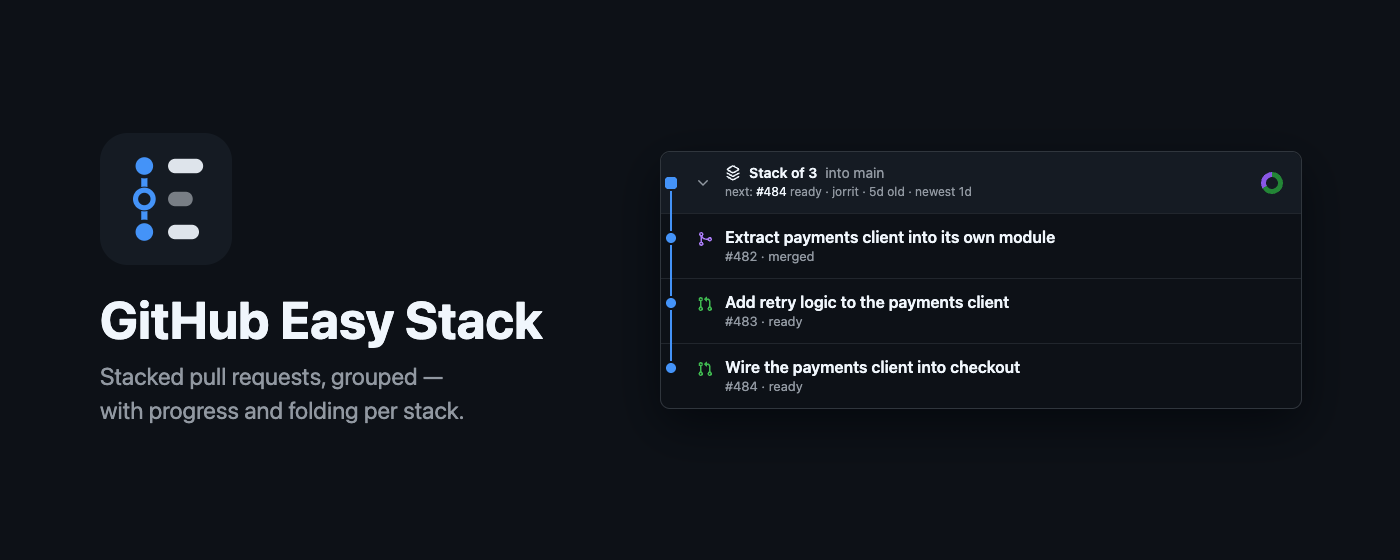
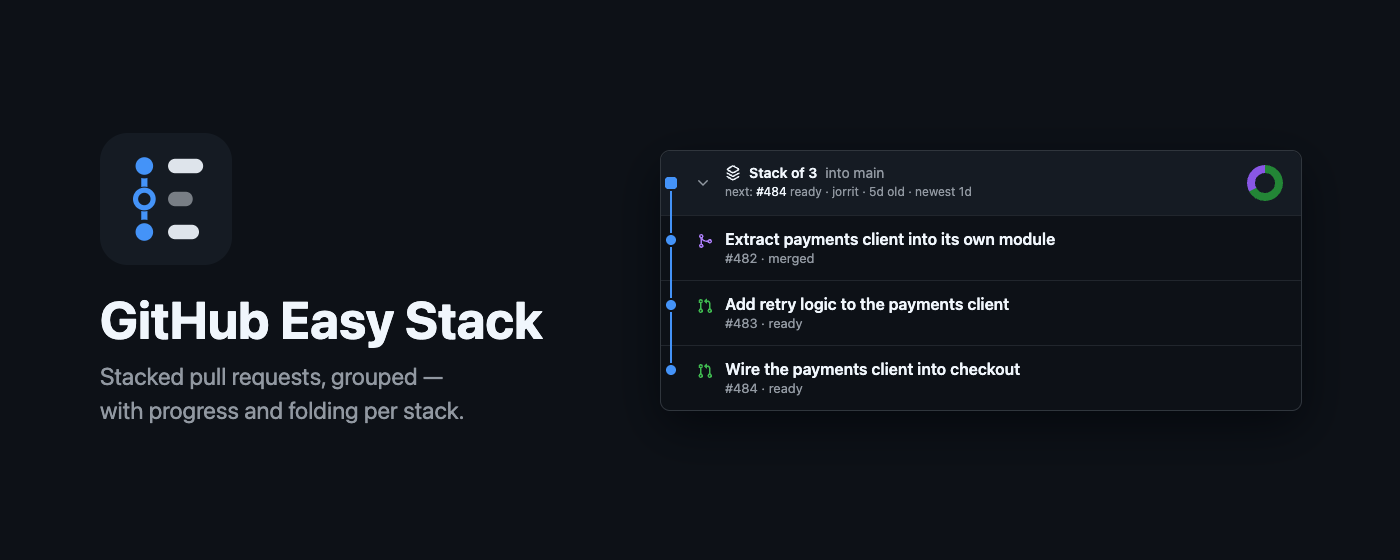
Enlarge the donut and give it a legend with the status colours
A 22px ring was too small to read at a glance and a title attribute can only
say "1 blocked" in the same grey as everything else. The ring is 36px now, so
thin slices no longer have to be padded to 12 degrees to stay visible, and the
counts moved into a hover card that puts each status next to its own colour -
the same colour the ring draws it in.

The card is one reused node on <body>, positioned from the donut's rect, so no
container GitHub wraps its list in can clip it, and it is shown through the
pointerover handler that is already delegated on the document.

diff --git a/store/assets.html b/store/assets.html
@@ -47,7 +47,7 @@ section { display: flex; flex-direction: column; gap: 56px; padding: 48px; }
 <span style="display:inline-flex;align-items:center;gap:8px;font-size:14px;font-weight:600;color:#f0f6fc"><svg width="16" height="16" viewBox="0 0 16 16" style="fill:currentColor"><path d="M7.122.392a1.75 1.75 0 0 1 1.756 0l5.003 2.902c.83.481.83 1.68 0 2.162L8.878 8.358a1.75 1.75 0 0 1-1.756 0L2.119 5.456a1.251 1.251 0 0 1 0-2.162ZM8.125 1.69a.248.248 0 0 0-.25 0l-4.63 2.685 4.63 2.685a.248.248 0 0 0 .25 0l4.63-2.685ZM1.601 7.789a.75.75 0 0 1 1.025-.273l5.249 3.044a.248.248 0 0 0 .25 0l5.249-3.044a.75.75 0 0 1 .752 1.298l-5.248 3.044a1.75 1.75 0 0 1-1.756 0L1.874 8.814A.75.75 0 0 1 1.6 7.789Zm0 3.5a.75.75 0 0 1 1.025-.273l5.249 3.044a.248.248 0 0 0 .25 0l5.249-3.044a.75.75 0 0 1 .752 1.298l-5.248 3.044a1.75 1.75 0 0 1-1.756 0l-5.248-3.044a.75.75 0 0 1-.273-1.025Z"></path></svg>Stack of 4<span style="font-weight:400;color:#9198a1"> into main</span></span>
 <div style="display:flex;height:18px;overflow:hidden;font-size:12px;line-height:18px;color:#9198a1"><span>next: <a style="color:#f0f6fc;text-decoration:none">#482</a> ready &middot; jorrit &middot; 9d old &middot; newest 1d</span></div>
 </div>
-<div style="padding:2px"><svg width="22" height="22" viewBox="0 0 22 22" style="display:block"><circle cx="11" cy="11" r="8.5" fill="none" stroke="#238636" stroke-width="5" stroke-dasharray="26.70 26.70" stroke-dashoffset="0.00" transform="rotate(-90 11 11)"></circle><circle cx="11" cy="11" r="8.5" fill="none" stroke="#3d444d" stroke-width="5" stroke-dasharray="13.35 40.06" stroke-dashoffset="-26.70" transform="rotate(-90 11 11)"></circle><circle cx="11" cy="11" r="8.5" fill="none" stroke="#8957e5" stroke-width="5" stroke-dasharray="13.35 40.06" stroke-dashoffset="-40.06" transform="rotate(-90 11 11)"></circle></svg></div>
+<div style="padding:2px"><svg width="36" height="36" viewBox="0 0 36 36" style="display:block"><circle cx="18" cy="18" r="14" fill="none" stroke="#238636" stroke-width="8" stroke-dasharray="43.98 43.98" stroke-dashoffset="0.00" transform="rotate(-90 18 18)"></circle><circle cx="18" cy="18" r="14" fill="none" stroke="#3d444d" stroke-width="8" stroke-dasharray="21.99 65.98" stroke-dashoffset="-43.98" transform="rotate(-90 18 18)"></circle><circle cx="18" cy="18" r="14" fill="none" stroke="#8957e5" stroke-width="8" stroke-dasharray="21.99 65.98" stroke-dashoffset="-65.98" transform="rotate(-90 18 18)"></circle></svg></div>
 </div></div>
 <!-- stack rows -->
 <div style="position:relative;display:flex;align-items:flex-start;gap:12px;padding:14px 16px 14px 36px;border-top:1px solid #21262d"><div style="position:absolute;top:0;bottom:0;left:0;width:20px"><span style="position:absolute;left:10px;top:-1px;bottom:calc(100% - 24px);width:2px;margin-left:-1px;background:#4493f8"></span><span style="position:absolute;left:10px;top:24px;bottom:-1px;width:2px;margin-left:-1px;background:#4493f8"></span><span style="position:absolute;left:10px;top:24px;width:10px;height:10px;margin:-5px 0 0 -5px;border-radius:50%;background:#4493f8;box-shadow:0 0 0 2px #0d1117"></span></div><svg width="16" height="16" viewBox="0 0 16 16" style="fill:#ab7df8;flex-shrink:0;margin-top:3px"><path d="M5.45 5.154A4.25 4.25 0 0 0 9.25 7.5h1.378a2.251 2.251 0 1 1 0 1.5H9.25A5.734 5.734 0 0 1 5 7.123v3.505a2.25 2.25 0 1 1-1.5 0V5.372a2.25 2.25 0 1 1 1.95-.218ZM4.25 13.5a.75.75 0 1 0 0-1.5.75.75 0 0 0 0 1.5Zm8.5-4.5a.75.75 0 1 0 0-1.5.75.75 0 0 0 0 1.5ZM5 3.25a.75.75 0 1 0 0 .005V3.25Z"></path></svg><div><a href="#" style="font-size:16px;font-weight:600;color:#f0f6fc">Extract payments client into its own module</a><div style="font-size:13px;color:#9198a1;margin-top:2px">#482 opened 2 days ago by jorrit</div></div></div>
@@ -58,7 +58,7 @@ section { display: flex; flex-direction: column; gap: 56px; padding: 48px; }
 <div style="position:relative;display:flex;align-items:flex-start;gap:12px;padding:14px 16px;border-top:1px solid #21262d"><svg width="16" height="16" viewBox="0 0 16 16" style="fill:#9198a1;flex-shrink:0;margin-top:3px"><path d="M1.5 3.25a2.25 2.25 0 1 1 3 2.122v5.256a2.251 2.251 0 1 1-1.5 0V5.372A2.25 2.25 0 0 1 1.5 3.25Zm5.677-.177L9.573.677A.25.25 0 0 1 10 .854V2.5h1A2.5 2.5 0 0 1 13.5 5v5.628a2.251 2.251 0 1 1-1.5 0V5a1 1 0 0 0-1-1h-1v1.646a.25.25 0 0 1-.427.177L7.177 3.427a.25.25 0 0 1 0-.354ZM3.75 2.5a.75.75 0 1 0 0 1.5.75.75 0 0 0 0-1.5Zm0 9.5a.75.75 0 1 0 0 1.5.75.75 0 0 0 0-1.5Zm8.25.75a.75.75 0 1 0 1.5 0 .75.75 0 0 0-1.5 0Z"></path></svg><div><a href="#" style="font-size:16px;font-weight:600;color:#f0f6fc">Bump CI to Node 22</a><div style="font-size:13px;color:#9198a1;margin-top:2px">#476 opened last week by mira · Draft</div></div></div>
 </div>
 <!-- callouts -->
-<div style="position:absolute;top:24px;left:800px;background:rgba(22,27,34,0.95);border:1px solid #4493f8;border-radius:8px;padding:9px 14px;font-size:18px;font-weight:600;color:#f0f6fc">Hover the donut for the counts</div>
+<div style="position:absolute;top:24px;left:800px;background:rgba(22,27,34,0.95);border:1px solid #4493f8;border-radius:8px;padding:9px 14px;font-size:18px;font-weight:600;color:#f0f6fc">Hover the donut for the legend</div>
 <div style="position:absolute;top:66px;left:1100px;width:2px;height:162px;background:#4493f8"></div><div style="position:absolute;top:225px;left:1098px;width:6px;height:6px;border-radius:50%;background:#4493f8"></div>
 <div style="position:absolute;top:24px;left:150px;background:rgba(22,27,34,0.95);border:1px solid #4493f8;border-radius:8px;padding:9px 14px;font-size:18px;font-weight:600;color:#f0f6fc">What is next, who, how old</div>
 <div style="position:absolute;top:66px;left:300px;width:2px;height:190px;background:#4493f8"></div><div style="position:absolute;top:253px;left:298px;width:6px;height:6px;border-radius:50%;background:#4493f8"></div>
@@ -71,8 +71,8 @@ section { display: flex; flex-direction: column; gap: 56px; padding: 48px; }
 <!-- Shot 2: progress close-up -->
 <div id="screenshot-2-progress" style="width:1280px;height:800px;flex-shrink:0;background:#0d1117;position:relative;overflow:hidden;display:flex;align-items:center;justify-content:center">
 <div style="width:1060px;background:#151b23;border:1px solid #30363d;border-radius:12px;padding:36px 44px;display:flex;flex-direction:column;gap:28px">
-<div style="display:flex;align-items:center;gap:24px"><svg width="28" height="28" viewBox="0 0 16 16" style="fill:#9198a1"><path d="M12.78 5.22a.749.749 0 0 1 0 1.06l-4.25 4.25a.749.749 0 0 1-1.06 0L3.22 6.28a.749.749 0 1 1 1.06-1.06L8 8.939l3.72-3.719a.749.749 0 0 1 1.06 0Z"></path></svg><div style="display:flex;flex-direction:column;gap:6px;flex:1;min-width:0"><span style="display:inline-flex;align-items:center;gap:14px;font-size:30px;font-weight:600;color:#f0f6fc;white-space:nowrap"><svg width="30" height="30" viewBox="0 0 16 16" style="fill:currentColor"><path d="M7.122.392a1.75 1.75 0 0 1 1.756 0l5.003 2.902c.83.481.83 1.68 0 2.162L8.878 8.358a1.75 1.75 0 0 1-1.756 0L2.119 5.456a1.251 1.251 0 0 1 0-2.162ZM8.125 1.69a.248.248 0 0 0-.25 0l-4.63 2.685 4.63 2.685a.248.248 0 0 0 .25 0l4.63-2.685ZM1.601 7.789a.75.75 0 0 1 1.025-.273l5.249 3.044a.248.248 0 0 0 .25 0l5.249-3.044a.75.75 0 0 1 .752 1.298l-5.248 3.044a1.75 1.75 0 0 1-1.756 0L1.874 8.814A.75.75 0 0 1 1.6 7.789Zm0 3.5a.75.75 0 0 1 1.025-.273l5.249 3.044a.248.248 0 0 0 .25 0l5.249-3.044a.75.75 0 0 1 .752 1.298l-5.248 3.044a1.75 1.75 0 0 1-1.756 0l-5.248-3.044a.75.75 0 0 1-.273-1.025Z"></path></svg>Stack of 6<span style="font-weight:400;color:#9198a1"> into main</span></span><div style="display:flex;height:30px;overflow:hidden;font-size:22px;line-height:30px;color:#9198a1"><span>next: <span style="color:#f0f6fc">#482</span>in progress &middot; jorrit +1 &middot; 9d old &middot; newest 1d</span></div></div><div style="flex-shrink:0"><svg width="132" height="132" viewBox="0 0 132 132" style="display:block"><circle cx="66" cy="66" r="51" fill="none" stroke="#da3633" stroke-width="30" stroke-dasharray="53.41 267.04" stroke-dashoffset="0.00" transform="rotate(-90 66 66)"></circle><circle cx="66" cy="66" r="51" fill="none" stroke="#9e6a03" stroke-width="30" stroke-dasharray="53.41 267.04" stroke-dashoffset="-53.41" transform="rotate(-90 66 66)"></circle><circle cx="66" cy="66" r="51" fill="none" stroke="#238636" stroke-width="30" stroke-dasharray="53.41 267.04" stroke-dashoffset="-106.81" transform="rotate(-90 66 66)"></circle><circle cx="66" cy="66" r="51" fill="none" stroke="#656c76" stroke-width="30" stroke-dasharray="53.41 267.04" stroke-dashoffset="-160.22" transform="rotate(-90 66 66)"></circle><circle cx="66" cy="66" r="51" fill="none" stroke="#8957e5" stroke-width="30" stroke-dasharray="106.81 213.63" stroke-dashoffset="-213.63" transform="rotate(-90 66 66)"></circle></svg></div></div>
-<div style="display:flex;align-items:flex-start;gap:32px"><div style="flex:1;font-size:20px;line-height:1.55;color:#9198a1">Merged, ready, in progress, blocked, draft, and the members GitHub left off this page. Hover the donut for the counts.</div><div style="display:flex;flex-direction:column;gap:12px;font-size:22px;color:#f0f6fc;background:#0d1117;border:1px solid #3d444d;border-radius:6px;padding:14px 18px"><span style="display:inline-flex;align-items:center;gap:10px"><span style="width:14px;height:14px;border-radius:50%;background:#8957e5"></span>2 merged</span><span style="display:inline-flex;align-items:center;gap:10px"><span style="width:14px;height:14px;border-radius:50%;background:#238636"></span>1 ready</span><span style="display:inline-flex;align-items:center;gap:10px"><span style="width:14px;height:14px;border-radius:50%;background:#9e6a03"></span>1 in progress</span><span style="display:inline-flex;align-items:center;gap:10px"><span style="width:14px;height:14px;border-radius:50%;background:#da3633"></span>1 blocked</span><span style="display:inline-flex;align-items:center;gap:10px"><span style="width:14px;height:14px;border-radius:50%;background:#656c76"></span>1 draft</span></div></div>
+<div style="display:flex;align-items:center;gap:24px"><svg width="28" height="28" viewBox="0 0 16 16" style="fill:#9198a1"><path d="M12.78 5.22a.749.749 0 0 1 0 1.06l-4.25 4.25a.749.749 0 0 1-1.06 0L3.22 6.28a.749.749 0 1 1 1.06-1.06L8 8.939l3.72-3.719a.749.749 0 0 1 1.06 0Z"></path></svg><div style="display:flex;flex-direction:column;gap:6px;flex:1;min-width:0"><span style="display:inline-flex;align-items:center;gap:14px;font-size:30px;font-weight:600;color:#f0f6fc;white-space:nowrap"><svg width="30" height="30" viewBox="0 0 16 16" style="fill:currentColor"><path d="M7.122.392a1.75 1.75 0 0 1 1.756 0l5.003 2.902c.83.481.83 1.68 0 2.162L8.878 8.358a1.75 1.75 0 0 1-1.756 0L2.119 5.456a1.251 1.251 0 0 1 0-2.162ZM8.125 1.69a.248.248 0 0 0-.25 0l-4.63 2.685 4.63 2.685a.248.248 0 0 0 .25 0l4.63-2.685ZM1.601 7.789a.75.75 0 0 1 1.025-.273l5.249 3.044a.248.248 0 0 0 .25 0l5.249-3.044a.75.75 0 0 1 .752 1.298l-5.248 3.044a1.75 1.75 0 0 1-1.756 0L1.874 8.814A.75.75 0 0 1 1.6 7.789Zm0 3.5a.75.75 0 0 1 1.025-.273l5.249 3.044a.248.248 0 0 0 .25 0l5.249-3.044a.75.75 0 0 1 .752 1.298l-5.248 3.044a1.75 1.75 0 0 1-1.756 0l-5.248-3.044a.75.75 0 0 1-.273-1.025Z"></path></svg>Stack of 6<span style="font-weight:400;color:#9198a1"> into main</span></span><div style="display:flex;height:30px;overflow:hidden;font-size:22px;line-height:30px;color:#9198a1"><span>next: <span style="color:#f0f6fc">#482</span> in progress &middot; jorrit +1 &middot; 9d old &middot; newest 1d</span></div></div><div style="flex-shrink:0"><svg width="132" height="132" viewBox="0 0 132 132" style="display:block"><circle cx="66" cy="66" r="51" fill="none" stroke="#da3633" stroke-width="30" stroke-dasharray="53.41 267.04" stroke-dashoffset="0.00" transform="rotate(-90 66 66)"></circle><circle cx="66" cy="66" r="51" fill="none" stroke="#9e6a03" stroke-width="30" stroke-dasharray="53.41 267.04" stroke-dashoffset="-53.41" transform="rotate(-90 66 66)"></circle><circle cx="66" cy="66" r="51" fill="none" stroke="#238636" stroke-width="30" stroke-dasharray="53.41 267.04" stroke-dashoffset="-106.81" transform="rotate(-90 66 66)"></circle><circle cx="66" cy="66" r="51" fill="none" stroke="#656c76" stroke-width="30" stroke-dasharray="53.41 267.04" stroke-dashoffset="-160.22" transform="rotate(-90 66 66)"></circle><circle cx="66" cy="66" r="51" fill="none" stroke="#8957e5" stroke-width="30" stroke-dasharray="106.81 213.63" stroke-dashoffset="-213.63" transform="rotate(-90 66 66)"></circle></svg></div></div>
+<div style="display:flex;align-items:flex-start;gap:32px"><div style="flex:1;font-size:20px;line-height:1.55;color:#9198a1">Merged, ready, in progress, blocked, draft, and the members GitHub left off this page. Hover the donut for the legend, a colour and a count per status.</div><div style="display:flex;flex-direction:column;gap:12px;font-size:22px;color:#f0f6fc;background:#0d1117;border:1px solid #3d444d;border-radius:6px;padding:14px 18px"><span style="display:inline-flex;align-items:center;gap:10px"><span style="width:14px;height:14px;border-radius:50%;background:#8957e5"></span>2 merged</span><span style="display:inline-flex;align-items:center;gap:10px"><span style="width:14px;height:14px;border-radius:50%;background:#238636"></span>1 ready</span><span style="display:inline-flex;align-items:center;gap:10px"><span style="width:14px;height:14px;border-radius:50%;background:#9e6a03"></span>1 in progress</span><span style="display:inline-flex;align-items:center;gap:10px"><span style="width:14px;height:14px;border-radius:50%;background:#da3633"></span>1 blocked</span><span style="display:inline-flex;align-items:center;gap:10px"><span style="width:14px;height:14px;border-radius:50%;background:#656c76"></span>1 draft</span></div></div>
 </div>
 <div style="position:absolute;top:120px;left:110px;background:rgba(22,27,34,0.95);border:1px solid #4493f8;border-radius:8px;padding:9px 14px;font-size:18px;font-weight:600;color:#f0f6fc">Every stack header shows where the stack stands</div>
 <div style="position:absolute;bottom:110px;right:130px;background:rgba(22,27,34,0.95);border:1px solid #4493f8;border-radius:8px;padding:9px 14px;font-size:18px;font-weight:600;color:#f0f6fc">Ready = no requested changes, no failing checks, not a draft</div>
@@ -90,7 +90,7 @@ section { display: flex; flex-direction: column; gap: 56px; padding: 48px; }
 <span style="display:inline-flex;align-items:center;gap:8px;font-size:14px;font-weight:600;color:#f0f6fc"><svg width="16" height="16" viewBox="0 0 16 16" style="fill:currentColor"><path d="M7.122.392a1.75 1.75 0 0 1 1.756 0l5.003 2.902c.83.481.83 1.68 0 2.162L8.878 8.358a1.75 1.75 0 0 1-1.756 0L2.119 5.456a1.251 1.251 0 0 1 0-2.162ZM8.125 1.69a.248.248 0 0 0-.25 0l-4.63 2.685 4.63 2.685a.248.248 0 0 0 .25 0l4.63-2.685ZM1.601 7.789a.75.75 0 0 1 1.025-.273l5.249 3.044a.248.248 0 0 0 .25 0l5.249-3.044a.75.75 0 0 1 .752 1.298l-5.248 3.044a1.75 1.75 0 0 1-1.756 0L1.874 8.814A.75.75 0 0 1 1.6 7.789Zm0 3.5a.75.75 0 0 1 1.025-.273l5.249 3.044a.248.248 0 0 0 .25 0l5.249-3.044a.75.75 0 0 1 .752 1.298l-5.248 3.044a1.75 1.75 0 0 1-1.756 0l-5.248-3.044a.75.75 0 0 1-.273-1.025Z"></path></svg>Stack of 4<span style="font-weight:400;color:#9198a1"> into main</span></span>
 <div style="display:flex;height:18px;overflow:hidden;font-size:12px;line-height:18px;color:#9198a1"><span>next: <a style="color:#f0f6fc;text-decoration:none">#483</a> ready &middot; jorrit +1 &middot; 6d old &middot; newest 21h</span></div>
 </div>
-<div style="padding:2px"><svg width="22" height="22" viewBox="0 0 22 22" style="display:block"><circle cx="11" cy="11" r="8.5" fill="none" stroke="#238636" stroke-width="5" stroke-dasharray="40.06 13.35" stroke-dashoffset="0.00" transform="rotate(-90 11 11)"></circle><circle cx="11" cy="11" r="8.5" fill="none" stroke="#8957e5" stroke-width="5" stroke-dasharray="13.35 40.06" stroke-dashoffset="-40.06" transform="rotate(-90 11 11)"></circle></svg></div>
+<div style="padding:2px"><svg width="36" height="36" viewBox="0 0 36 36" style="display:block"><circle cx="18" cy="18" r="14" fill="none" stroke="#238636" stroke-width="8" stroke-dasharray="65.98 21.99" stroke-dashoffset="0.00" transform="rotate(-90 18 18)"></circle><circle cx="18" cy="18" r="14" fill="none" stroke="#8957e5" stroke-width="8" stroke-dasharray="21.99 65.98" stroke-dashoffset="-65.98" transform="rotate(-90 18 18)"></circle></svg></div>
 </div></div>
 <div style="position:relative;padding:12px 16px 12px 36px;border-top:1px solid #21262d;background:#151b23;font-size:13px;color:#9198a1">
 <div style="position:absolute;top:0;bottom:0;left:0;width:20px"><span style="position:absolute;left:10px;top:50%;width:12px;height:12px;margin:-6px 0 0 -6px;border-radius:3px;background:#ab7df8;box-shadow:0 0 0 2px #151b23"></span></div>
@@ -100,7 +100,7 @@ section { display: flex; flex-direction: column; gap: 56px; padding: 48px; }
 <span style="display:inline-flex;align-items:center;gap:8px;font-size:14px;font-weight:600;color:#f0f6fc"><svg width="16" height="16" viewBox="0 0 16 16" style="fill:currentColor"><path d="M7.122.392a1.75 1.75 0 0 1 1.756 0l5.003 2.902c.83.481.83 1.68 0 2.162L8.878 8.358a1.75 1.75 0 0 1-1.756 0L2.119 5.456a1.251 1.251 0 0 1 0-2.162ZM8.125 1.69a.248.248 0 0 0-.25 0l-4.63 2.685 4.63 2.685a.248.248 0 0 0 .25 0l4.63-2.685ZM1.601 7.789a.75.75 0 0 1 1.025-.273l5.249 3.044a.248.248 0 0 0 .25 0l5.249-3.044a.75.75 0 0 1 .752 1.298l-5.248 3.044a1.75 1.75 0 0 1-1.756 0L1.874 8.814A.75.75 0 0 1 1.6 7.789Zm0 3.5a.75.75 0 0 1 1.025-.273l5.249 3.044a.248.248 0 0 0 .25 0l5.249-3.044a.75.75 0 0 1 .752 1.298l-5.248 3.044a1.75 1.75 0 0 1-1.756 0l-5.248-3.044a.75.75 0 0 1-.273-1.025Z"></path></svg>Stack of 3<span style="font-weight:400;color:#9198a1"> into develop</span></span>
 <div style="display:flex;height:18px;overflow:hidden;font-size:12px;line-height:18px;color:#9198a1"><span>next: <a style="color:#f0f6fc;text-decoration:none">#476</a> draft &middot; mira &middot; 8d old &middot; newest 2d</span></div>
 </div>
-<div style="padding:2px"><svg width="22" height="22" viewBox="0 0 22 22" style="display:block"><circle cx="11" cy="11" r="8.5" fill="none" stroke="#9e6a03" stroke-width="5" stroke-dasharray="17.80 35.60" stroke-dashoffset="0.00" transform="rotate(-90 11 11)"></circle><circle cx="11" cy="11" r="8.5" fill="none" stroke="#656c76" stroke-width="5" stroke-dasharray="35.60 17.80" stroke-dashoffset="-17.80" transform="rotate(-90 11 11)"></circle></svg></div>
+<div style="padding:2px"><svg width="36" height="36" viewBox="0 0 36 36" style="display:block"><circle cx="18" cy="18" r="14" fill="none" stroke="#9e6a03" stroke-width="8" stroke-dasharray="29.32 58.64" stroke-dashoffset="0.00" transform="rotate(-90 18 18)"></circle><circle cx="18" cy="18" r="14" fill="none" stroke="#656c76" stroke-width="8" stroke-dasharray="58.64 29.32" stroke-dashoffset="-29.32" transform="rotate(-90 18 18)"></circle></svg></div>
 </div></div>
 <div style="position:relative;display:flex;align-items:flex-start;gap:12px;padding:14px 16px;border-top:1px solid #21262d"><svg width="16" height="16" viewBox="0 0 16 16" style="fill:#3fb950;flex-shrink:0;margin-top:3px"><path d="M1.5 3.25a2.25 2.25 0 1 1 3 2.122v5.256a2.251 2.251 0 1 1-1.5 0V5.372A2.25 2.25 0 0 1 1.5 3.25Zm5.677-.177L9.573.677A.25.25 0 0 1 10 .854V2.5h1A2.5 2.5 0 0 1 13.5 5v5.628a2.251 2.251 0 1 1-1.5 0V5a1 1 0 0 0-1-1h-1v1.646a.25.25 0 0 1-.427.177L7.177 3.427a.25.25 0 0 1 0-.354ZM3.75 2.5a.75.75 0 1 0 0 1.5.75.75 0 0 0 0-1.5Zm0 9.5a.75.75 0 1 0 0 1.5.75.75 0 0 0 0-1.5Zm8.25.75a.75.75 0 1 0 1.5 0 .75.75 0 0 0-1.5 0Z"></path></svg><div><a href="#" style="font-size:16px;font-weight:600;color:#f0f6fc">Fix flaky login test on Safari</a><div style="font-size:13px;color:#9198a1;margin-top:2px">#479 opened 3 days ago by mira</div></div></div>
 </div>
@@ -142,7 +142,7 @@ section { display: flex; flex-direction: column; gap: 56px; padding: 48px; }
 <span style="display:inline-flex;align-items:center;gap:8px;font-size:14px;font-weight:600;color:#f0f6fc"><svg width="16" height="16" viewBox="0 0 16 16" style="fill:currentColor"><path d="M7.122.392a1.75 1.75 0 0 1 1.756 0l5.003 2.902c.83.481.83 1.68 0 2.162L8.878 8.358a1.75 1.75 0 0 1-1.756 0L2.119 5.456a1.251 1.251 0 0 1 0-2.162ZM8.125 1.69a.248.248 0 0 0-.25 0l-4.63 2.685 4.63 2.685a.248.248 0 0 0 .25 0l4.63-2.685ZM1.601 7.789a.75.75 0 0 1 1.025-.273l5.249 3.044a.248.248 0 0 0 .25 0l5.249-3.044a.75.75 0 0 1 .752 1.298l-5.248 3.044a1.75 1.75 0 0 1-1.756 0L1.874 8.814A.75.75 0 0 1 1.6 7.789Zm0 3.5a.75.75 0 0 1 1.025-.273l5.249 3.044a.248.248 0 0 0 .25 0l5.249-3.044a.75.75 0 0 1 .752 1.298l-5.248 3.044a1.75 1.75 0 0 1-1.756 0l-5.248-3.044a.75.75 0 0 1-.273-1.025Z"></path></svg>Stack of 3<span style="font-weight:400;color:#9198a1"> into main</span></span>
 <div style="display:flex;height:18px;overflow:hidden;font-size:12px;line-height:18px;color:#9198a1"><span>next: <a style="color:#f0f6fc;text-decoration:none">#484</a> ready &middot; jorrit &middot; 5d old &middot; newest 1d</span></div>
 </div>
-<div style="padding:2px"><svg width="22" height="22" viewBox="0 0 22 22" style="display:block"><circle cx="11" cy="11" r="8.5" fill="none" stroke="#238636" stroke-width="5" stroke-dasharray="35.60 17.80" stroke-dashoffset="0.00" transform="rotate(-90 11 11)"></circle><circle cx="11" cy="11" r="8.5" fill="none" stroke="#8957e5" stroke-width="5" stroke-dasharray="17.80 35.60" stroke-dashoffset="-35.60" transform="rotate(-90 11 11)"></circle></svg></div>
+<div style="padding:2px"><svg width="36" height="36" viewBox="0 0 36 36" style="display:block"><circle cx="18" cy="18" r="14" fill="none" stroke="#238636" stroke-width="8" stroke-dasharray="58.64 29.32" stroke-dashoffset="0.00" transform="rotate(-90 18 18)"></circle><circle cx="18" cy="18" r="14" fill="none" stroke="#8957e5" stroke-width="8" stroke-dasharray="29.32 58.64" stroke-dashoffset="-58.64" transform="rotate(-90 18 18)"></circle></svg></div>
 </div></div>
 <div style="position:relative;display:flex;align-items:flex-start;gap:12px;padding:14px 16px 14px 36px;border-top:1px solid #21262d"><div style="position:absolute;top:0;bottom:0;left:0;width:20px"><span style="position:absolute;left:10px;top:-1px;bottom:calc(100% - 24px);width:2px;margin-left:-1px;background:#4493f8"></span><span style="position:absolute;left:10px;top:24px;bottom:-1px;width:2px;margin-left:-1px;background:#4493f8"></span><span style="position:absolute;left:10px;top:24px;width:10px;height:10px;margin:-5px 0 0 -5px;border-radius:50%;background:#4493f8;box-shadow:0 0 0 2px #0d1117"></span></div><svg width="16" height="16" viewBox="0 0 16 16" style="fill:#ab7df8;flex-shrink:0;margin-top:3px"><path d="M5.45 5.154A4.25 4.25 0 0 0 9.25 7.5h1.378a2.251 2.251 0 1 1 0 1.5H9.25A5.734 5.734 0 0 1 5 7.123v3.505a2.25 2.25 0 1 1-1.5 0V5.372a2.25 2.25 0 1 1 1.95-.218ZM4.25 13.5a.75.75 0 1 0 0-1.5.75.75 0 0 0 0 1.5Zm8.5-4.5a.75.75 0 1 0 0-1.5.75.75 0 0 0 0 1.5ZM5 3.25a.75.75 0 1 0 0 .005V3.25Z"></path></svg><div><span style="font-size:16px;font-weight:600;color:#f0f6fc">Extract payments client into its own module</span><div style="font-size:13px;color:#9198a1;margin-top:2px">#482 · merged</div></div></div>
 <div style="position:relative;display:flex;align-items:flex-start;gap:12px;padding:14px 16px 14px 36px;border-top:1px solid #21262d"><div style="position:absolute;top:0;bottom:0;left:0;width:20px"><span style="position:absolute;left:10px;top:-1px;bottom:calc(100% - 24px);width:2px;margin-left:-1px;background:#4493f8"></span><span style="position:absolute;left:10px;top:24px;bottom:-1px;width:2px;margin-left:-1px;background:#4493f8"></span><span style="position:absolute;left:10px;top:24px;width:10px;height:10px;margin:-5px 0 0 -5px;border-radius:50%;background:#4493f8;box-shadow:0 0 0 2px #0d1117"></span></div><svg width="16" height="16" viewBox="0 0 16 16" style="fill:#3fb950;flex-shrink:0;margin-top:3px"><path d="M1.5 3.25a2.25 2.25 0 1 1 3 2.122v5.256a2.251 2.251 0 1 1-1.5 0V5.372A2.25 2.25 0 0 1 1.5 3.25Zm5.677-.177L9.573.677A.25.25 0 0 1 10 .854V2.5h1A2.5 2.5 0 0 1 13.5 5v5.628a2.251 2.251 0 1 1-1.5 0V5a1 1 0 0 0-1-1h-1v1.646a.25.25 0 0 1-.427.177L7.177 3.427a.25.25 0 0 1 0-.354ZM3.75 2.5a.75.75 0 1 0 0 1.5.75.75 0 0 0 0-1.5Zm0 9.5a.75.75 0 1 0 0 1.5.75.75 0 0 0 0-1.5Zm8.25.75a.75.75 0 1 0 1.5 0 .75.75 0 0 0-1.5 0Z"></path></svg><div><span style="font-size:16px;font-weight:600;color:#f0f6fc">Add retry logic to the payments client</span><div style="font-size:13px;color:#9198a1;margin-top:2px">#483 · ready</div></div></div>

diff --git a/src/content.js b/src/content.js
@@ -11,10 +11,10 @@
   const LEADING_ICON_SELECTOR = '[class*="LeadingContent-module__container"] svg';
   const MAX_CONCURRENT_FETCHES = 3;
   const SVG_NS = "http://www.w3.org/2000/svg";
-  // Outer 22px, 5px ring: the hole stays 12px so the shape still reads as a donut.
-  const DONUT_SIZE = 22;
-  const DONUT_RADIUS = 8.5;
-  const DONUT_STROKE = 5;
+  // Outer 36px, 8px ring: the hole stays 20px so the shape still reads as a donut.
+  const DONUT_SIZE = 36;
+  const DONUT_RADIUS = 14;
+  const DONUT_STROKE = 8;
   // Drawn as presentation attributes so the ring survives even if the stylesheet does not load;
   // content.css overrides the stroke with GitHub's own theme variable when it does.
   const STATUS_COLORS = {
@@ -304,6 +304,59 @@
     return svg;
   }
 
+  // A hover card rather than the title attribute: the counts only read as a legend when each
+  // one carries its own colour, and a native title is plain text. One node, reused, parked on
+  // <body> so nothing GitHub wraps the list in can clip it.
+  let tooltip = null;
+  let tooltipOwner = null;
+
+  function tooltipNode() {
+    if (tooltip?.isConnected) return tooltip;
+    tooltip = el("div", "ges-tooltip");
+    // Structure inline, looks in content.css: a stylesheet that fails to arrive must not leave
+    // a legend parked in the corner of the page.
+    Object.assign(tooltip.style, { position: "fixed", display: "none", zIndex: "2147483647", pointerEvents: "none" });
+    document.body.appendChild(tooltip);
+    return tooltip;
+  }
+
+  function legendRow(status, count) {
+    const row = el("div", "ges-legend-row");
+    const dot = el("span", `ges-dot ges-s-${status}`);
+    // The variable is the stylesheet's themed colour, the literal what is left without it, and
+    // the size has to come along or there would be nothing for either to colour.
+    Object.assign(dot.style, {
+      width: "8px",
+      height: "8px",
+      borderRadius: "50%",
+      background: `var(--ges-status, ${STATUS_COLORS[status]})`,
+    });
+    row.append(dot, el("span", "ges-legend-count", String(count)), el("span", "ges-legend-label", STATUS_LABELS[status]));
+    return row;
+  }
+
+  function showTooltip(owner) {
+    const counts = owner.gesCounts;
+    if (!counts) return;
+    const node = tooltipNode();
+    node.replaceChildren(...core.STATUSES.filter((s) => counts[s] > 0).map((s) => legendRow(s, counts[s])));
+    node.style.display = "block";
+    // Under the donut and right-aligned with it, flipped above when the row sits low.
+    const anchor = owner.getBoundingClientRect();
+    const box = node.getBoundingClientRect();
+    const below = anchor.bottom + 6;
+    const top = below + box.height > innerHeight - 8 ? Math.max(8, anchor.top - box.height - 6) : below;
+    node.style.top = `${top}px`;
+    node.style.left = `${Math.max(8, Math.min(anchor.right - box.width, innerWidth - box.width - 8))}px`;
+    tooltipOwner = owner;
+  }
+
+  function hideTooltip() {
+    if (!tooltipOwner) return;
+    tooltip.style.display = "none";
+    tooltipOwner = null;
+  }
+
   function metaItem(text, title) {
     const item = el("span", "ges-meta-item", text);
     if (title) item.title = title;
@@ -357,11 +410,11 @@
       const described = core.STATUSES.filter((s) => summary.counts[s] > 0);
       const counts = described.map((s) => `${summary.counts[s]} ${STATUS_LABELS[s]}`);
       const donut = el("span", "ges-donut");
-      // The counts used to be spelled out in the header; the tooltip is where they live now,
-      // one per line, and the label keeps them in the accessibility tree.
+      // The counts used to be spelled out in the header; the hover legend is where they live
+      // now, one per line, and the label keeps them in the accessibility tree.
       donut.setAttribute("role", "img");
       donut.setAttribute("aria-label", `Stack progress: ${counts.join(", ")}`);
-      donut.title = counts.join("\n");
+      donut.gesCounts = summary.counts;
       donut.appendChild(renderDonut(summary.counts));
 
       return [fold, main, donut];
@@ -422,6 +475,7 @@
   }
 
   function updateList(list) {
+    if (tooltipOwner && !tooltipOwner.isConnected) hideTooltip();
     const rows = [...list.children]
       .filter((node) => node.tagName === "LI" && !node.hasAttribute("data-ges-synthetic"))
       .map(readRow);
@@ -505,6 +559,8 @@
   }
 
   function onPointerOver(event) {
+    const donut = event.target.closest?.(".ges-donut");
+    if (donut !== tooltipOwner) donut ? showTooltip(donut) : hideTooltip();
     const list = event.target.closest?.(LIST_SELECTOR);
     if (!list) return;
     const li = event.target.closest(`${LIST_SELECTOR} > li`);
@@ -515,6 +571,7 @@
   }
 
   function onPointerLeave(event) {
+    hideTooltip();
     const list = event.target;
     if (!(list instanceof Element) || !list.matches(LIST_SELECTOR)) return;
     list.dataset.gesHover = "";
@@ -568,6 +625,8 @@
   document.addEventListener("pointerover", onPointerOver, true);
   document.addEventListener("pointerleave", onPointerLeave, true);
   document.addEventListener("click", onClick);
+  document.addEventListener("scroll", hideTooltip, { capture: true, passive: true });
+  window.addEventListener("resize", hideTooltip, { passive: true });
   loadSettings();
   scheduleUpdate();
 })();

diff --git a/src/content.css b/src/content.css
@@ -207,7 +207,44 @@ ul[data-ges-active] > li.ges-synthetic > .ges-body {
   align-self: center;
   /* Claims whatever is left of the row, so it sits against the right edge. */
   margin-left: auto;
-  padding-left: 8px;
+  padding-left: 12px;
+}
+
+/* The donut's legend: one row per status, in its own colour. Positioned in content.js. */
+.ges-tooltip {
+  padding: 8px 10px;
+  border: 1px solid var(--borderColor-default, #3d444d);
+  border-radius: 6px;
+  background-color: var(--overlay-bgColor, var(--bgColor-default, #0d1117));
+  box-shadow: var(--shadow-floating-small, 0 6px 12px -3px #010409a6);
+  color: var(--fgColor-default, #f0f6fc);
+  font-size: 12px;
+  line-height: 18px;
+  white-space: nowrap;
+}
+
+.ges-legend-row {
+  display: flex;
+  align-items: center;
+  gap: 8px;
+}
+
+.ges-dot {
+  flex-shrink: 0;
+  width: 8px;
+  height: 8px;
+  border-radius: 50%;
+  background: var(--ges-status);
+}
+
+.ges-legend-count {
+  min-width: 2ch;
+  text-align: right;
+  font-variant-numeric: tabular-nums;
+}
+
+.ges-legend-label {
+  color: var(--fgColor-muted, #9198a1);
 }
 
 .ges-arc {

diff --git a/src/core.js b/src/core.js
@@ -4,8 +4,8 @@
   const STATUSES = ["merged", "ready", "waiting", "blocked", "draft", "unknown", "closed"];
   // Clockwise from 12 o'clock in the donut: what needs attention first, what is done last.
   const RING_ORDER = ["blocked", "waiting", "ready", "draft", "unknown", "merged", "closed"];
-  // A 22px donut draws ~0.15px of arc per degree, so anything under ~12deg is a hairline.
-  const MIN_SLICE_DEGREES = 12;
+  // A 36px donut draws ~0.24px of arc per degree, so anything under ~8deg is a hairline.
+  const MIN_SLICE_DEGREES = 8;
 
   function parseStackLabel(label) {
     const match = /position\s+(\d+)\s+of\s+(\d+)/i.exec(label || "");

diff --git a/README.md b/README.md
@@ -3,7 +3,7 @@
 Browser extension for Chrome and Firefox that groups [stacked pull requests](https://docs.github.com/en/pull-requests/how-tos/stacked-pull-requests) in GitHub's pull request lists.
 
 - **Always grouped**: stack members are shown together under a stack header, even if other PRs sat between them. Open members that aren't on the current page (pagination, filters) show up as compact placeholder rows.
-- **Progress**: a donut on the right of the header splits the stack into merged, ready, in progress, blocked, draft, closed and not on this page. Hover it for the counts, one per line. Slices thinner than 12 degrees are drawn at 12, so one blocked PR in a stack of twenty stays visible.
+- **Progress**: a donut on the right of the header splits the stack into merged, ready, in progress, blocked, draft, closed and not on this page. Hover it for a legend: the colour, the count and the status, one per line. Slices thinner than 8 degrees are drawn at 8, so one blocked PR in a stack of twenty stays visible.
 - **At a glance**: under *Stack of X into Y* the header shows what to do next (the lowest member that has not merged), who the stack belongs to, and how old it is - oldest and newest member. The line is one row tall, so on a narrow window it drops items from the right, keeping the next action.
 - **Fold**: click a stack header to fold or unfold it. The toolbar popup has a *Fold stacks by default* setting.
 - **Rail**: a colored line connects the members; hover a row to highlight its whole stack.

diff --git a/store/listing.md b/store/listing.md
@@ -11,7 +11,7 @@ Groups stacked pull requests in GitHub's PR lists — with progress, colored rai
 GitHub Easy Stack groups stacked pull requests in GitHub's pull request lists.
 
 — Always grouped: stack members are shown together under a stack header, even when other PRs sit between them. Open members that aren't on the current page appear as compact placeholder rows.
-— Progress at a glance: a donut on each header splits the stack into merged, ready, in progress, blocked, draft and not on this page. Hover it for the counts.
+— Progress at a glance: a donut on each header splits the stack into merged, ready, in progress, blocked, draft and not on this page. Hover it for a legend with a colour and a count per status.
 — What to do next: the header also shows the lowest member that hasn't merged, who the stack belongs to, and how old it is.
 — Fold: click a stack header to fold or unfold it, or fold all stacks by default from the toolbar popup.
 — Rail: a colored line connects the members of a stack; hover any row to highlight its whole stack.
